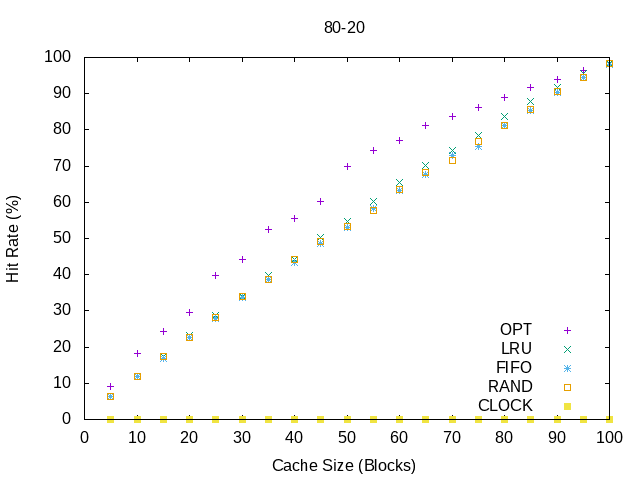
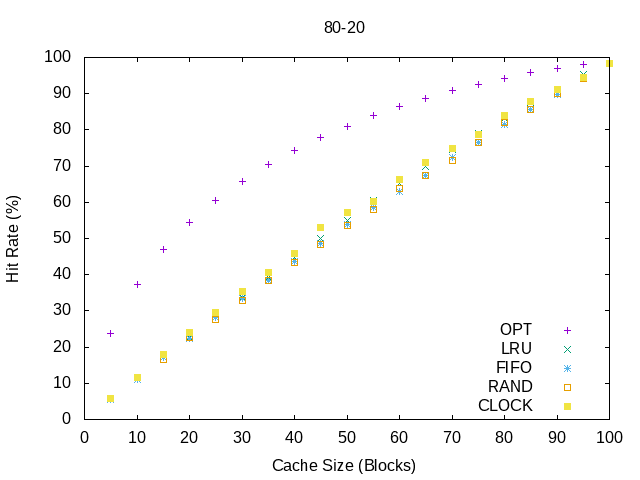
Performance of PRP_OPT vastly improved, compiler flags now include -O3. This will be the submision build unless you can find something wrong with the new PRP_OPT

diff --git a/policies.cpp b/policies.cpp
@@ -3,6 +3,7 @@
 #include <unordered_map>
 #include <random>
 #include <ctime>
+#include <list>
 #include <algorithm>
 #include "policies.hpp"
 using std::vector;
@@ -35,9 +36,9 @@ int PRP_FIFO(const vector<int>& workload, unsigned int memsize) {
             hits++;
         } else {
             // Page cache miss
-            // Replace page at head of queue with the one being accessed
+            // Replace page at head of list with the one being accessed
             cachedPages.at(cachedPagesHead) = access;
-            // Move head of queue forward by one
+            // Move head of list forward by one
             cachedPagesHead = (cachedPagesHead + 1) % cachedPages.size();
         }
     }
@@ -56,10 +57,24 @@ int PRP_FIFO(const vector<int>& workload, unsigned int memsize) {
  *
  *  \return Number of cache hits generated by using random policy
  */
+unsigned long list_hash(const std::list<unsigned int>& q){
+	return (unsigned long)(&q);
+}
 int PRP_OPT(const vector<int>& workload, unsigned int memsize){
 	std::unordered_set<int> pages_in_mem;
+	std::unordered_map<int, std::list<unsigned int>> accesses; //Key: page Value: list of every access for a page
 	int hits = 0;
+	unsigned int j = 0;
+	for(;j < workload.size(); j++){
+		if(accesses.count(workload[j] > 0)) (accesses[workload[j]]).push_back(j);
+		else{
+			accesses[workload[j]] = std::list<unsigned int>();
+			(accesses[workload[j]]).push_back(j);
+		}
+	}
+
 	for(unsigned int i = 0; i < workload.size(); i++){
+		if((accesses[workload[i]]).size() > 0) accesses[workload[i]].pop_front();
 		if(pages_in_mem.count(workload[i]) > 0){
 			hits++;
 		} 
@@ -67,14 +82,16 @@ int PRP_OPT(const vector<int>& workload, unsigned int memsize){
 			pages_in_mem.insert(workload[i]);
 		}
 		else {
-			std::unordered_set<int> replacement_canidiates = pages_in_mem;
-			unsigned int j = i;
-			for(;j < workload.size() && replacement_canidiates.size() > 1; j++){
-				if(replacement_canidiates.count(workload[j] > 0)){
-					replacement_canidiates.erase(workload[j]);
-				}
+			int latest = *pages_in_mem.begin();
+			for(int page : pages_in_mem){
+				if(accesses[page].size() == 0){
+					latest = page;
+					break;
+				} else if(accesses[page].front() > accesses[latest].front()){
+					latest = page;
+				}			
 			}
-			pages_in_mem.erase( *(replacement_canidiates.begin()) );
+			pages_in_mem.erase(latest);
 			pages_in_mem.insert(workload[i]);
 		}
 	}
